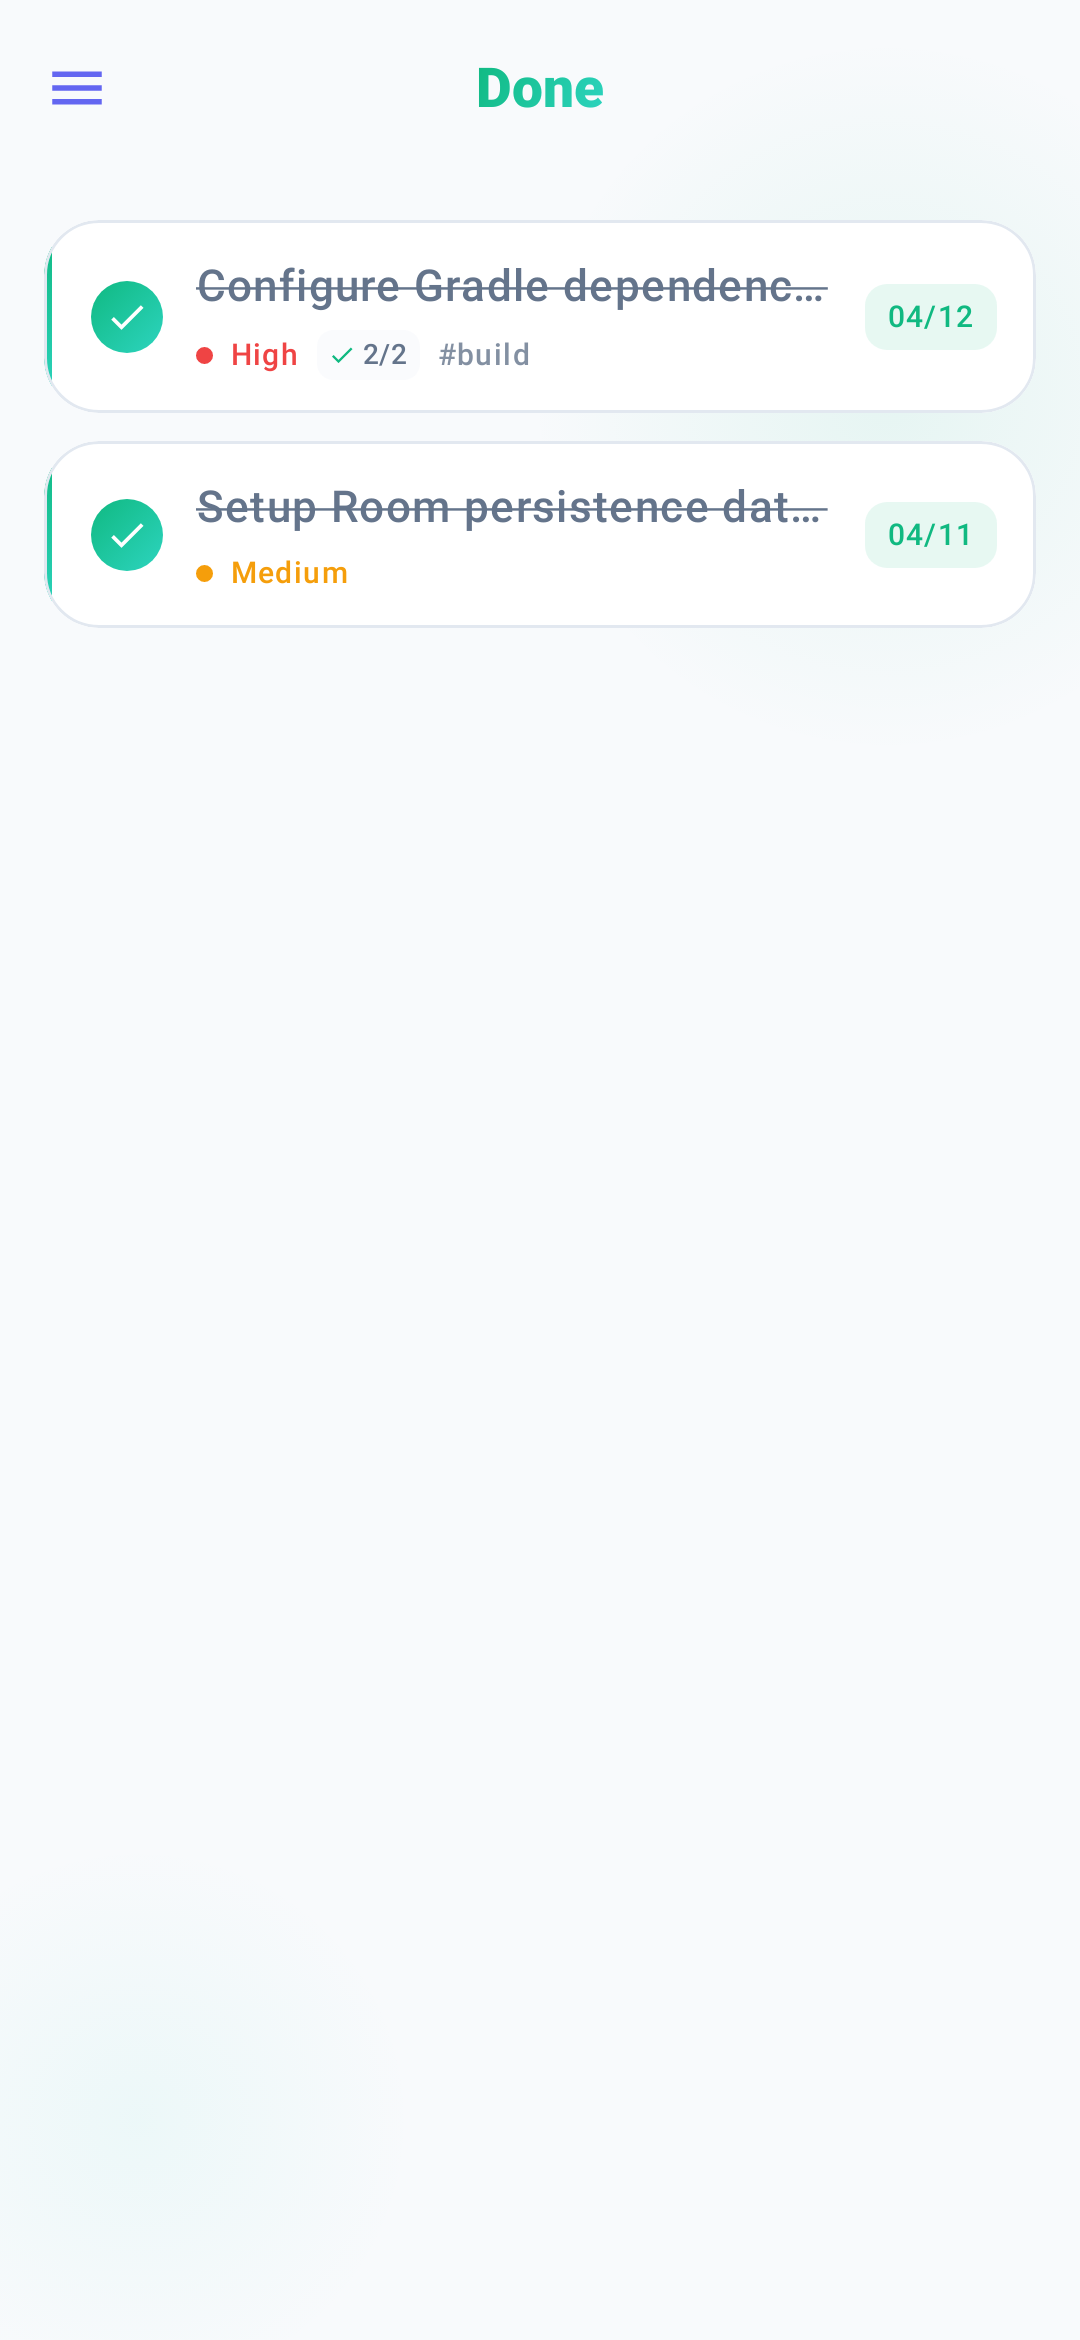
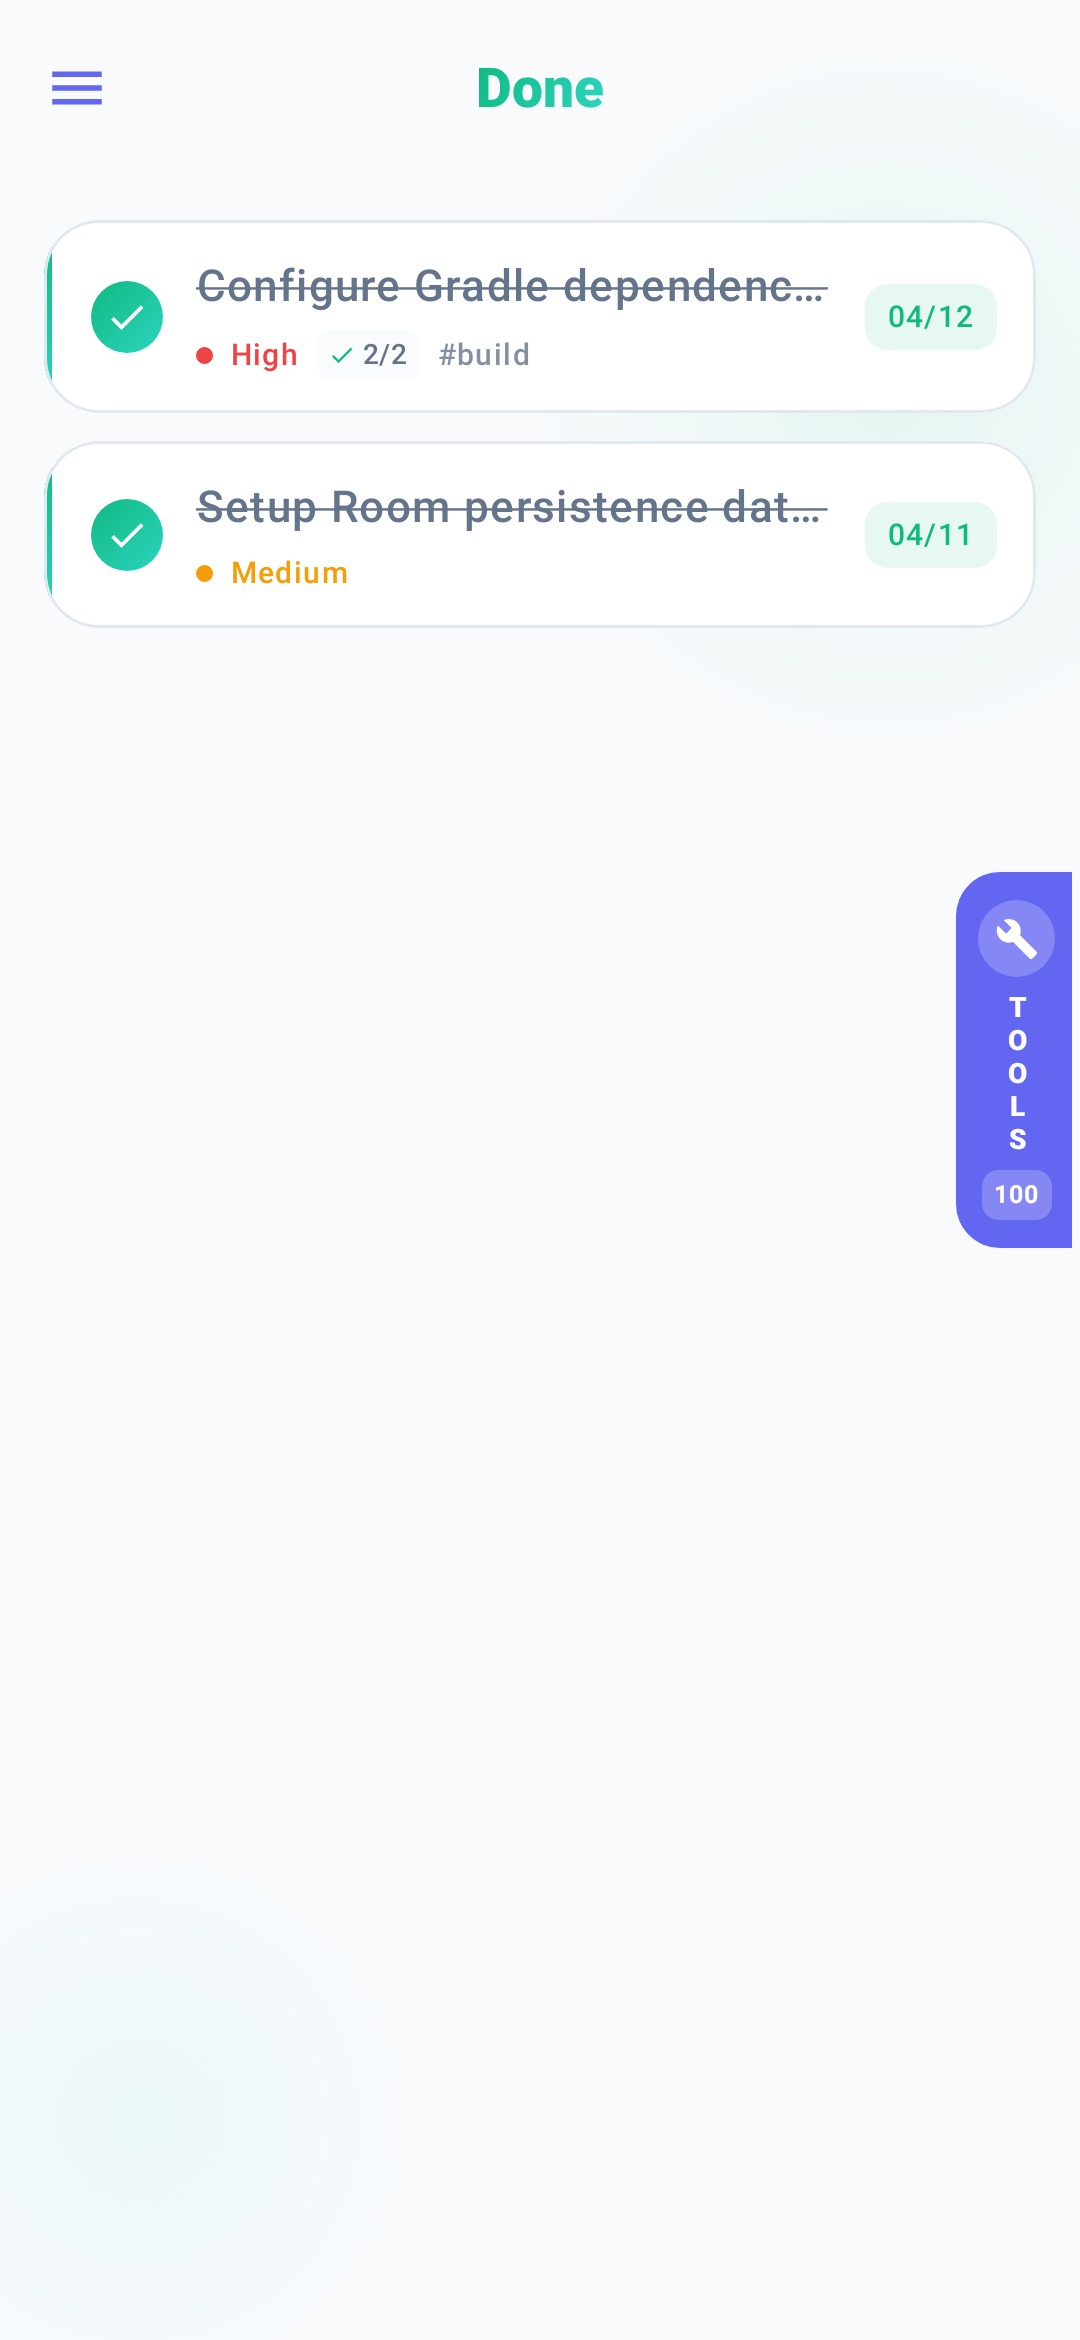
fix(docs): include vertical toolbox button on all README and snapshot screens

Changed region(s): [[0.8861, 0.3744, 1.0, 0.5303]]

diff --git a/app/src/test/java/io/mns/base/app/ui/screenshot/ComposeScreenshotsTest.kt b/app/src/test/java/io/mns/base/app/ui/screenshot/ComposeScreenshotsTest.kt
@@ -2,7 +2,10 @@ package io.mns.base.app.ui.screenshot
 
 import androidx.arch.core.executor.testing.InstantTaskExecutorRule
 import androidx.compose.foundation.layout.Box
+import androidx.compose.foundation.layout.fillMaxSize
+import androidx.compose.foundation.layout.offset
 import androidx.compose.foundation.layout.padding
+import androidx.compose.ui.Alignment
 import androidx.compose.ui.Modifier
 import androidx.compose.ui.test.junit4.createComposeRule
 import androidx.compose.ui.test.onRoot
@@ -151,11 +154,19 @@ class ComposeScreenshotsTest {
     fun testHomeScreenWithItems() {
         composeTestRule.setContent {
             MTodoTheme(darkTheme = false) {
-                HomeScreenContent(
-                    sections = sampleSections,
-                    availableCategories = listOf("Work", "Personal", "Ideas"),
-                    initialFabVisible = true
-                )
+                Box(modifier = Modifier.fillMaxSize()) {
+                    HomeScreenContent(
+                        sections = sampleSections,
+                        availableCategories = listOf("Work", "Personal", "Ideas"),
+                        initialFabVisible = true
+                    )
+                    ToolboxSideAnchorButton(
+                        onClick = {},
+                        modifier = Modifier
+                            .align(Alignment.CenterEnd)
+                            .offset(y = (-40).dp)
+                    )
+                }
             }
         }
         composeTestRule.onRoot().captureRoboImage("src/test/snapshots/images/home_screen_content.png")
@@ -178,9 +189,17 @@ class ComposeScreenshotsTest {
     fun testDoneScreenWithItems() {
         composeTestRule.setContent {
             MTodoTheme(darkTheme = false) {
-                DoneScreenContent(
-                    items = sampleDoneItems
-                )
+                Box(modifier = Modifier.fillMaxSize()) {
+                    DoneScreenContent(
+                        items = sampleDoneItems
+                    )
+                    ToolboxSideAnchorButton(
+                        onClick = {},
+                        modifier = Modifier
+                            .align(Alignment.CenterEnd)
+                            .offset(y = (-40).dp)
+                    )
+                }
             }
         }
         composeTestRule.onRoot().captureRoboImage("src/test/snapshots/images/done_screen_content.png")
@@ -203,10 +222,19 @@ class ComposeScreenshotsTest {
     fun testSettingScreen() {
         composeTestRule.setContent {
             MTodoTheme(darkTheme = false) {
-                SettingScreenContent(
-                    isDark = false,
-                    animate = false
-                )
+                Box(modifier = Modifier.fillMaxSize()) {
+                    SettingScreenContent(
+                        isDark = false,
+                        animate = false,
+                        onToolboxClick = {}
+                    )
+                    ToolboxSideAnchorButton(
+                        onClick = {},
+                        modifier = Modifier
+                            .align(Alignment.CenterEnd)
+                            .offset(y = (-40).dp)
+                    )
+                }
             }
         }
         composeTestRule.onRoot().captureRoboImage("src/test/snapshots/images/setting_screen.png")
@@ -241,10 +269,18 @@ class ComposeScreenshotsTest {
         )
         composeTestRule.setContent {
             MTodoTheme(darkTheme = false) {
-                InsightsScreenContent(
-                    statistics = sampleStats,
-                    animate = false
-                )
+                Box(modifier = Modifier.fillMaxSize()) {
+                    InsightsScreenContent(
+                        statistics = sampleStats,
+                        animate = false
+                    )
+                    ToolboxSideAnchorButton(
+                        onClick = {},
+                        modifier = Modifier
+                            .align(Alignment.CenterEnd)
+                            .offset(y = (-40).dp)
+                    )
+                }
             }
         }
         composeTestRule.onRoot().captureRoboImage("src/test/snapshots/images/insights_screen.png")
